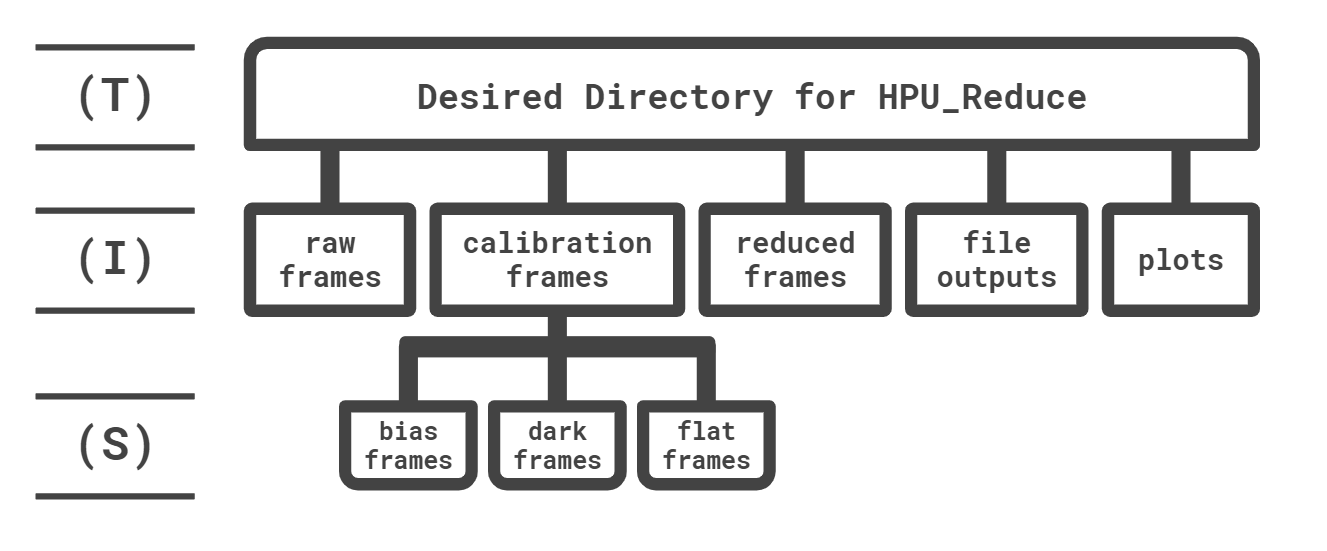
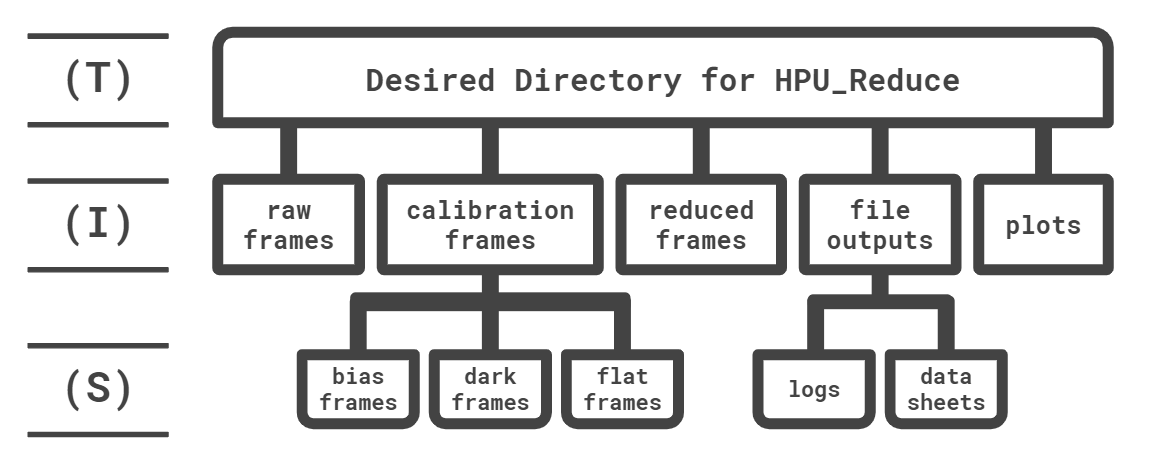
added logs and data_sheets subdirectories

diff --git a/HPU_Reduce.py b/HPU_Reduce.py
@@ -17,32 +17,36 @@ File Structure Setup:
     Run the setup.py file in the repository to create the directories necessary for HPU_Reduce.
     I have included some of the same directory creation code here just in case, but, at a minimum,
     the raw_frames directory needs to be made and contain the raw science frames for the code to run.
-    (T) = Top directory   (M) = Middle/Intermediate directory   (B) = Bottom directory
+    (T) = Top directory   (I) = Middle/Intermediate directory   (S) = Bottom directory
 
     (T) Directory in your desired location where you place HPU_Reduce.py
-        (M) raw_frames
+        (I) raw_frames
              ⃝ place your science frames here
                 - This assumes you have removed images which are not usable
                   (e.g., smearing from telescope bump)
-        (M) cal_frames
+        (I) cal_frames
              ⃝ place your calibration frames here
                 - Leave this directory empty if you have not taken cals yet
                 - To run without
-            (B) bias_frames
+            (S) bias_frames
                 ⃝ bias frames will be placed here if you don't place them here
                 ⃝ master bias frame will be created and placed here
-            (B) dark_frames
+            (S) dark_frames
                 ⃝ dark frames will be placed here if you don't place them here
                 ⃝ master dark frame will be created and placed here
-            (B) flat_frames
+            (S) flat_frames
                 ⃝ flat frames will be placed here if you don't place them here
                 ⃝ master flat frame will be created and placed here
-        (M) red_frames
+        (I) red_frames
              ⃝ reduced science frames will be placed here
-        (M) file_outputs
+        (I) file_outputs
              ⃝ any text files created for analysis will be placed here
                 - all text files will be space separated
                 - use pd.read_csv('file.txt', sep=' ', header=0) to read in output files
+            (S) logs
+                ⃝ log files from each run will be placed here
+            (S) data_sheets
+                ⃝ data sheets from each run will be placed here
 ----------------------------------------------------------------------------------------------------------
 Creates:
     1) Plots and whatnot

diff --git a/setup.py b/setup.py
@@ -5,8 +5,10 @@ Kyle Corcoran - University of Virginia
 kac8aj@virginia.edu
 2020
 -------------------------------------------------------------------------------------------
-This code creates the directories necessary for HPU_Reduce.
-If you would like to modify the file structure, you can do so here or in HPU_Reduce.py
+This code creates the directories necessary for HPU_Reduce, and it will also remove
+the files that are not necessary to run HPU_Reduce.  This includes the README.md file,
+so you will want to view this on the github page as it will be easier to see anyway.
+If you would like to modify the file structure, you can do so here or in HPU_Reduce.py.
 
 This does assume you have cloned the github repository into the directory that you wish to
 run everything in.  If you accidentally clone it somewhere else, you can move the files
@@ -20,16 +22,33 @@ Creates the following directories for use by HPU_Reduce:
         - flat_frames
      ⃝ red_frames
      ⃝ file_outputs
+        -logs
+        -data_sheets
      ⃝ plots
+Removes the following files if they exist:
+     ⃝ logo.png
+     ⃝ file_tree.png
+     ⃝ README.md
+     ⃝ LICENSE
 """
 
 import os
+
+# ------------------------  Lists of files to be removed  ------------------------ #
+rm_files = ["logo.png","file_tree.png","README.md","LICENSE"]
+
 # ------------------------  Lists of directories to be created  ------------------------ #
 # intermediate directories
 int_dirs = ["raw_frames","cal_frames","red_frames","file_outputs","plots"]
 # calibration subdirectories
 cal_dirs = ["bias_frames","dark_frames","flat_frames"]
+out_dirs = ["logs","data_sheets"]
 # ---- add additional lists if you want other subdirectories
+
+# ------------------------  Remove specified files  ------------------------ #
+for file in rm_files:
+    if(os.path.exists(file)==True):
+        os.remove(file)
 
 # ------------------------  Create intermediate directories  ------------------------ #
 for int_dir in int_dirs:
@@ -39,4 +58,6 @@ for int_dir in int_dirs:
 # calibrations
 for cal_dir in cal_dirs:
     os.makedirs(f'cal_frames/{cal_dir}', exist_ok=True)
+for out_dir in out_dirs:
+    os.makedirs(f'file_outputs/{out_dir}', exist_ok=True)
 # ---- copy, paste, and change the intermediate directory and list name to make any additonal subdirectories

diff --git a/README.md b/README.md
@@ -39,10 +39,8 @@ To create all the directories used by HPU_Reduce, you can run the setup.py file 
 ```sh
 > python setup.py
 ```
-Below is a sketch (with a key) of the file structure that is created and subsequently used by HPU_Reduce.  You will have to place your raw science frames in the ```raw_frames``` directory for HPU_Reduce to run.  Calibration frames can be placed in the ```cal_frames``` directory directly or you can sort them into their respective subdirectories if you wish.  Calibration frames are not necessary for HPU_Reduce to run, but you must specify this in the ```analysis_options``` file using ```"calibration": False```.  You do not have to use this file structure if you don't like it - just make the modifications that suit your workflow.
+Below is a sketch (with a key) of the file structure that is created and subsequently used by HPU_Reduce.  You will have to place your raw science frames in the ```raw_frames``` directory for HPU_Reduce to run.  Calibration frames can be placed in the ```cal_frames``` directory directly or you can sort them into their respective subdirectories if you wish.  Calibration frames are not necessary for HPU_Reduce to run, but you must specify this in the ```analysis_configs``` file using ```"calibration": false```.  You do not have to use this file structure if you don't like it - just make the modifications that suit your workflow.
 
 Directory Key:<br/>
-(T) = Top directory   
-(I) = Intermediate directory   
-(S) = Subdirectory
+(T) = Top directory       (I) = Intermediate directory      (S) = Subdirectory
 ![file tree diagram](file_tree.png)
